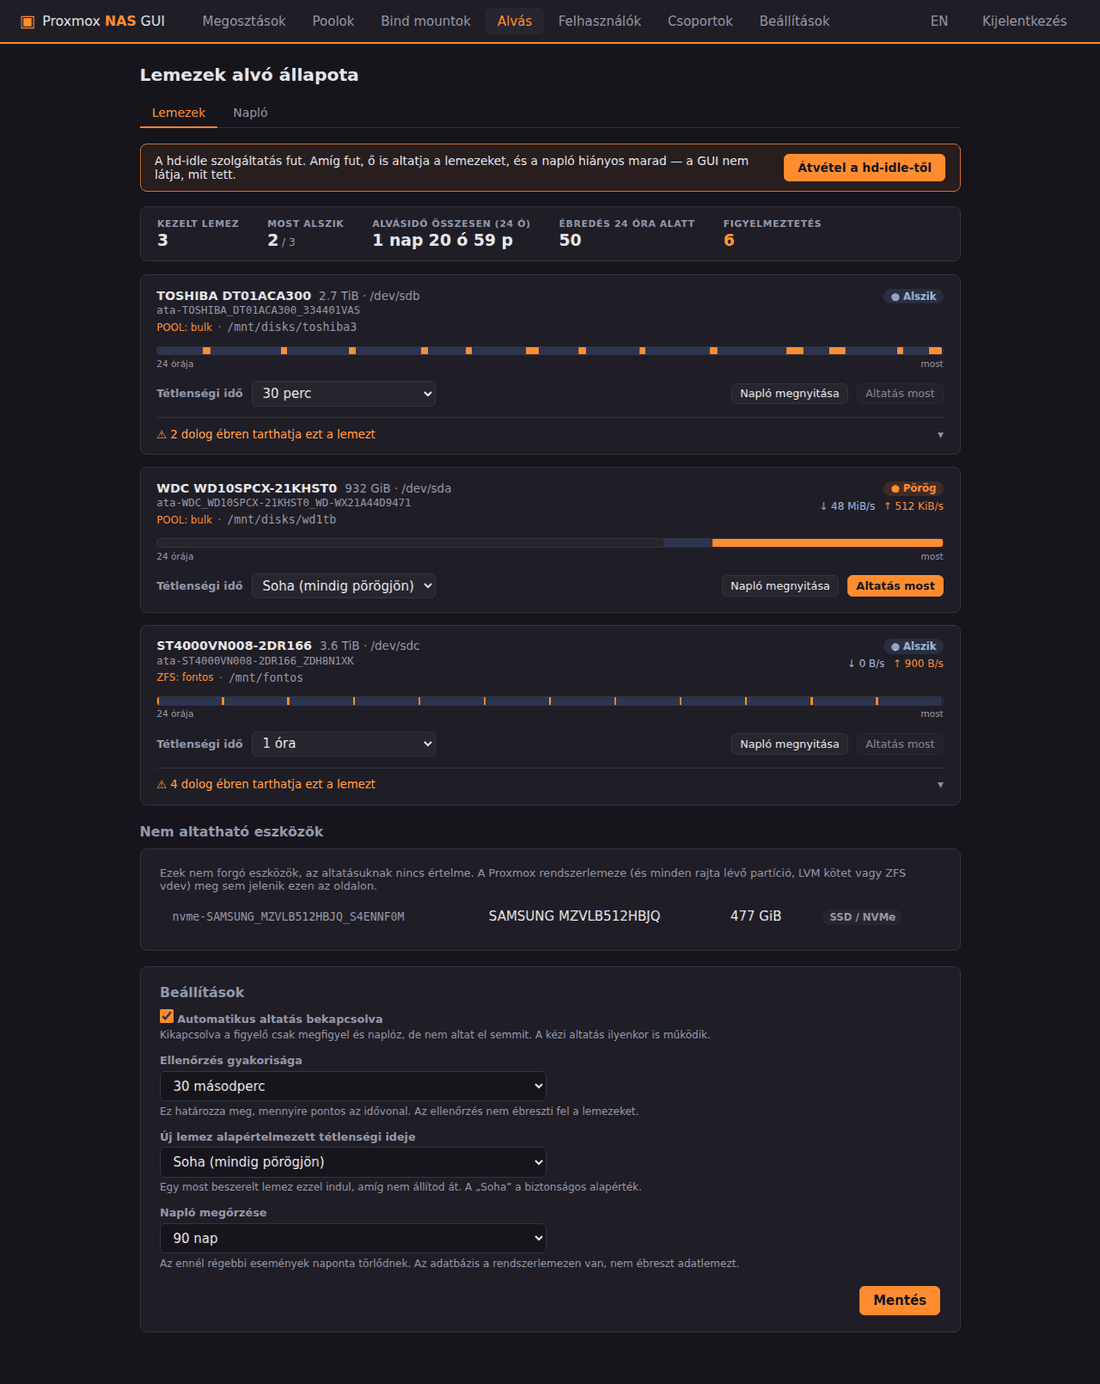
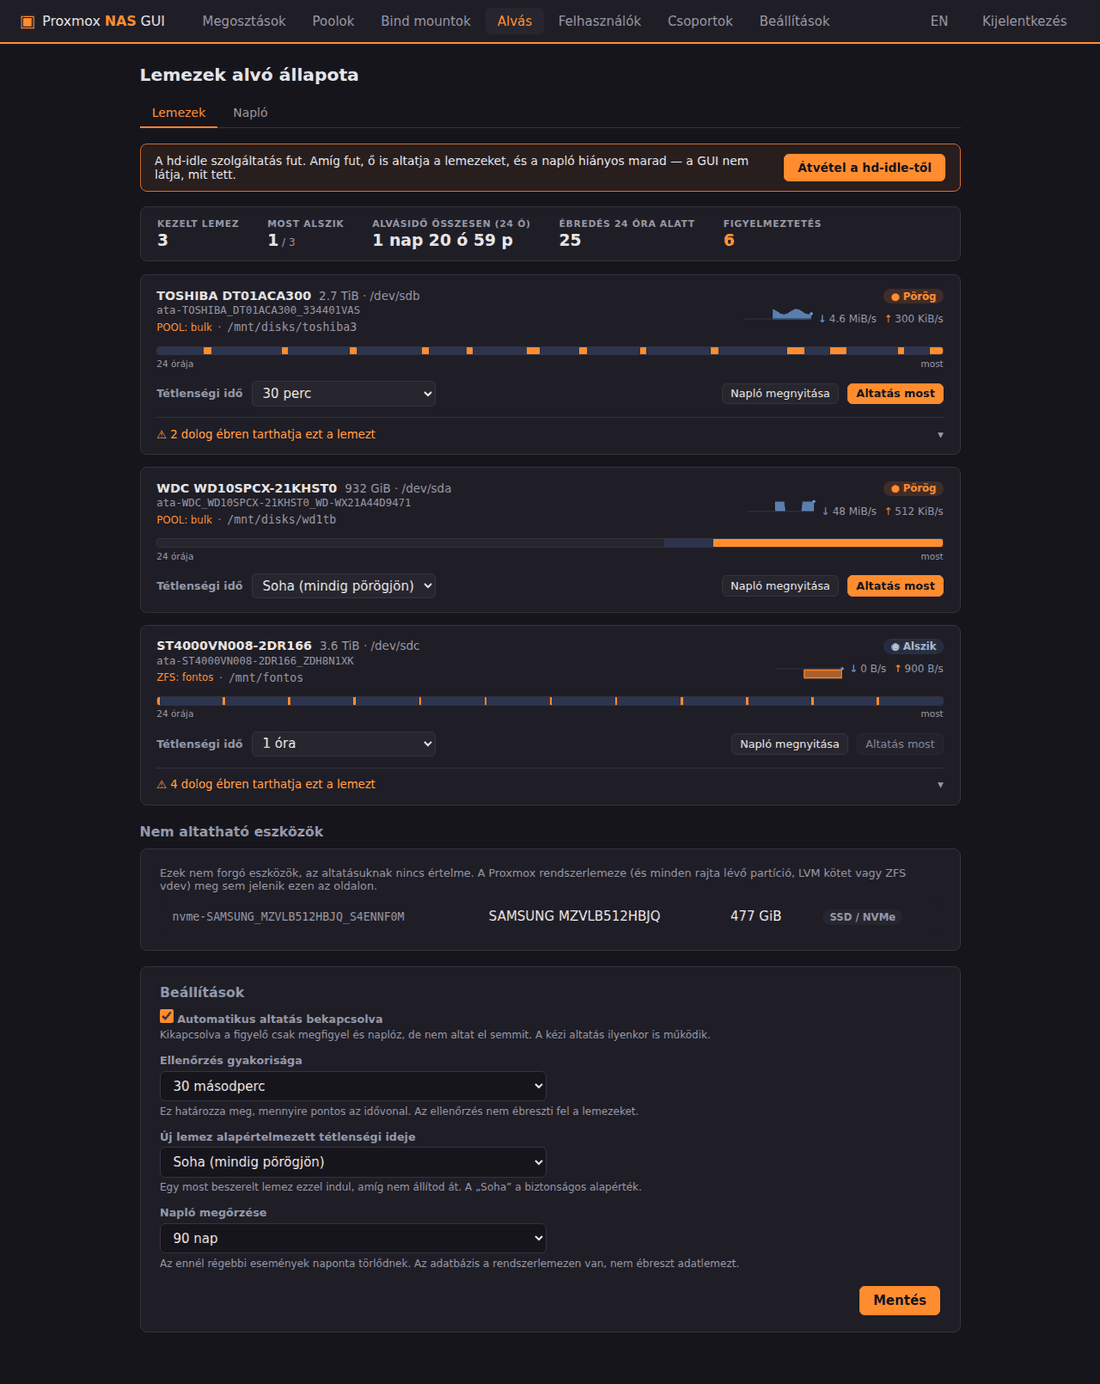
Add a mirrored sparkline to the live throughput readout
A number alone says how fast, not what shape. A backup, a scrub and an
active share all read as "busy" until you can see two minutes of history
next to the figure.

Reads are drawn above the centre line and writes below, both on one
shared scale. Mirroring rather than two overlaid lines because at 78x26
pixels the fills would hide each other, and the read/write balance is
most of what the shape is for. The shared scale is deliberate: giving
each series its own maximum would make a 900 B/s trickle look the size
of a 48 MiB/s read, which is the dual-axis mistake drawn small. The
window's own peak sets the scale so the shape always fills the box,
while the figure beside it and the peak in the tooltip carry the
magnitude.

That combination makes the case worth catching obvious: a disk whose
badge says "asleep" with a solid block of writes under the line is the
atime or snapshot signature, visible without opening the log.

The blue moved from #9db4ee to #58a6ff. The paler one falls below the
chroma floor at a 1px sparkline edge and reads as grey; the new one
clears it and keeps deltaE 27 against the accent under protanopia, 32
for normal vision, on this surface. The lightness-band check still fails
for the pair, because the other half of it is the application's own
accent - a fixed design token, not this chart's to re-pick.

The figures now wear text ink with the arrow glyph carrying the series
colour, so identity never rests on colour alone and small numbers stay
[…]

diff --git a/frontend/storage/sleep.js b/frontend/storage/sleep.js
@@ -15,6 +15,10 @@ const LOG_PAGE = 25;
  *  frequent: the endpoint only reads /proc/diskstats, which is kernel memory
  *  and issues no I/O, so polling it can never wake a sleeping disk. */
 const IO_INTERVAL = 2000;
+/** Samples kept per disk for the sparkline - two minutes at the poll rate.
+ *  Long enough to tell a burst from a steady stream, short enough that the
+ *  shape still describes what the disk is doing now. */
+const IO_SAMPLES = 60;
 
 /** Filters of the log tab, kept across re-renders so paging does not reset
  *  what the user is looking at. */
@@ -214,11 +218,16 @@ function wireDisks() {
 /** Previous counter sample, so a rate can be derived from two of them. */
 let ioPrevious = null;
 let ioTimer = null;
+/** by-id -> [[read, write], ...], newest last. */
+const ioHistory = new Map();
 
 function stopIo() {
   if (ioTimer) clearInterval(ioTimer);
   ioTimer = null;
   ioPrevious = null;
+  // The history goes too. Keeping it across a pause would draw the gap as a
+  // continuous line, which is a lie about what the disk was doing.
+  ioHistory.clear();
 }
 
 function startIo() {
@@ -264,6 +273,7 @@ async function pollIo() {
     if (!now || !before) { el.textContent = ""; return; }
     const read = Math.max(0, now.read_bytes - before.read_bytes) / seconds;
     const write = Math.max(0, now.write_bytes - before.write_bytes) / seconds;
+    const history = remember(el.dataset.io, read, write);
     // A disk with no traffic at all says nothing rather than blinking zeroes
     // at the user - the state badge above it already says "asleep".
     if (read < 1 && write < 1 && el.dataset.ioAsleep === "1") {
@@ -271,9 +281,70 @@ async function pollIo() {
       return;
     }
     el.innerHTML =
-      `<span class="io-r" title="${esc(t("sleep.ioRead"))}">↓ ${esc(rate(read))}</span>` +
-      `<span class="io-w" title="${esc(t("sleep.ioWrite"))}">↑ ${esc(rate(write))}</span>`;
+      sparkline(history) +
+      `<span class="io-n"><i class="io-r">↓</i> ${esc(rate(read))}</span>` +
+      `<span class="io-n"><i class="io-w">↑</i> ${esc(rate(write))}</span>`;
   });
+}
+
+function remember(byId, read, write) {
+  const history = ioHistory.get(byId) || [];
+  history.push([read, write]);
+  if (history.length > IO_SAMPLES) history.splice(0, history.length - IO_SAMPLES);
+  ioHistory.set(byId, history);
+  return history;
+}
+
+/** A mirrored sparkline: reads above the centre line, writes below.
+ *
+ *  Mirroring rather than two overlaid lines because at this size overlapping
+ *  fills would hide each other, and the read/write balance is most of what
+ *  the shape is for - a steady trickle of writes looks nothing like the burst
+ *  of a backup or a scrub.
+ *
+ *  Both halves share one scale, deliberately. Giving each series its own
+ *  maximum would make a 900 B/s write look the same size as a 48 MiB/s read,
+ *  which is the dual-axis mistake drawn small.
+ *
+ *  The scale is the window's own peak, so the shape always fills the box; the
+ *  numbers beside it and the peak in the tooltip carry the magnitude, which
+ *  is the division of labour a sparkline is for.
+ */
+function sparkline(history) {
+  if (history.length < 2) return "";
+  const peakRead = Math.max(...history.map((s) => s[0]));
+  const peakWrite = Math.max(...history.map((s) => s[1]));
+  const peak = Math.max(peakRead, peakWrite);
+  if (peak < 1) return "";
+
+  const W = 78, H = 26, mid = H / 2, amp = mid - 1.5;
+  // Anchored to the right edge, so a partly filled buffer grows leftwards and
+  // the newest sample is always in the same place.
+  const step = W / (IO_SAMPLES - 1);
+  const x = (i) => W - (history.length - 1 - i) * step;
+  const area = (pick, sign) => {
+    const points = history
+      .map((s, i) => `${x(i).toFixed(1)},${(mid + sign * (pick(s) / peak) * amp).toFixed(1)}`)
+      .join(" L");
+    return `M${x(0).toFixed(1)},${mid} L${points} L${x(history.length - 1).toFixed(1)},${mid}Z`;
+  };
+  const last = history[history.length - 1];
+  const tip = mid - (last[0] / peak) * amp;
+
+  return `<svg class="spark" viewBox="0 0 ${W} ${H}" width="${W}" height="${H}"
+      role="img" aria-label="${esc(t("sleep.sparkAria", {
+        window: Math.round((IO_SAMPLES * IO_INTERVAL) / 1000 / 60),
+        read: rate(peakRead), write: rate(peakWrite),
+      }))}">
+    <title>${esc(t("sleep.sparkTitle", {
+      window: Math.round((IO_SAMPLES * IO_INTERVAL) / 1000 / 60),
+      read: rate(peakRead), write: rate(peakWrite),
+    }))}</title>
+    <path class="spark-r" d="${area((s) => s[0], -1)}"/>
+    <path class="spark-w" d="${area((s) => s[1], 1)}"/>
+    <line class="spark-mid" x1="0" y1="${mid}" x2="${W}" y2="${mid}"/>
+    <circle class="spark-tip" cx="${W}" cy="${tip.toFixed(1)}" r="1.8"/>
+  </svg>`;
 }
 
 /** Reuses humanSize so the units match the rest of the application (KiB,

diff --git a/frontend/styles.css b/frontend/styles.css
@@ -317,8 +317,27 @@ td .ds { display: block; font-size: .72rem; color: var(--accent); }
 td .badge { white-space: nowrap; }
 
 /* Live throughput, refreshed from /proc/diskstats every couple of seconds.
-   Tabular figures so the numbers stop jittering sideways as they change. */
-.io { display: flex; gap: .6rem; font-size: .8rem; font-variant-numeric: tabular-nums; }
+   Tabular figures so the numbers stop jittering sideways as they change.
+
+   --io-read is a saturated blue rather than the paler one the sleeping badge
+   uses: at a 1px sparkline edge that one falls below the chroma floor and
+   reads as grey. Against the accent it clears CVD separation comfortably
+   (deltaE 27 protanopia, 32 normal vision) on this surface. */
+:root { --io-read: #58a6ff; }
+
+.io { display: flex; align-items: center; gap: .55rem; font-size: .8rem;
+      font-variant-numeric: tabular-nums; color: var(--text-dim); }
 .io:empty { display: none; }
-.io-r { color: #9db4ee; }
-.io-w { color: var(--accent); }
+/* The arrow carries the series colour; the number stays in text ink, so the
+   figures are legible at this size and identity never rests on colour alone. */
+.io-n { display: inline-flex; gap: .2rem; align-items: baseline; }
+.io-r { color: var(--io-read); font-style: normal; }
+.io-w { color: var(--accent); font-style: normal; }
+
+/* Mirrored sparkline: reads above the centre line, writes below, both on one
+   shared scale. Two minutes of history, newest at the right edge. */
+.spark { display: block; overflow: visible; }
+.spark-r { fill: var(--io-read); fill-opacity: .75; }
+.spark-w { fill: var(--accent); fill-opacity: .75; }
+.spark-mid { stroke: var(--border); stroke-width: 1; }
+.spark-tip { fill: var(--io-read); }

diff --git a/tests/test_i18n.py b/tests/test_i18n.py
@@ -18,7 +18,7 @@ LANGS = ("en", "hu")
 
 # The full key set before the per-package split. The union of the split files
 # must still equal this, so the split provably lost nothing.
-EXPECTED_KEY_COUNT = 319
+EXPECTED_KEY_COUNT = 321
 
 
 def load(bundle: str, lang: str) -> dict:

diff --git a/README.md b/README.md
@@ -134,7 +134,11 @@ mindhármat kiváltja.
   frissítve. A számlálók a `/proc/diskstats`-ból jönnek (kernelmemória, nulla
   lemez-I/O), a sebességet a böngésző számolja két minta különbségéből — így
   a lekérdezés maga sosem ébreszt fel semmit, és egy háttérbe tett fül sem
-  torzítja az értéket
+  torzítja az értéket. A szám mellett **tükrözött sparkline** mutatja az
+  utolsó 2 percet — az olvasás a középvonal fölött, az írás alatta, közös
+  skálán. Így ránézésre elkülönül a löketszerű forgalom (mentés, scrub) az
+  egyenletestől, és rögtön látszik az is, ha egy „alvó" lemezre folyamatosan
+  írás érkezik
 - **Figyelmeztetések**: a GUI megnézi, mi tarthatja ébren az adott lemezt, és
   ahol biztonságos, egy gombbal ki is javítja
 
